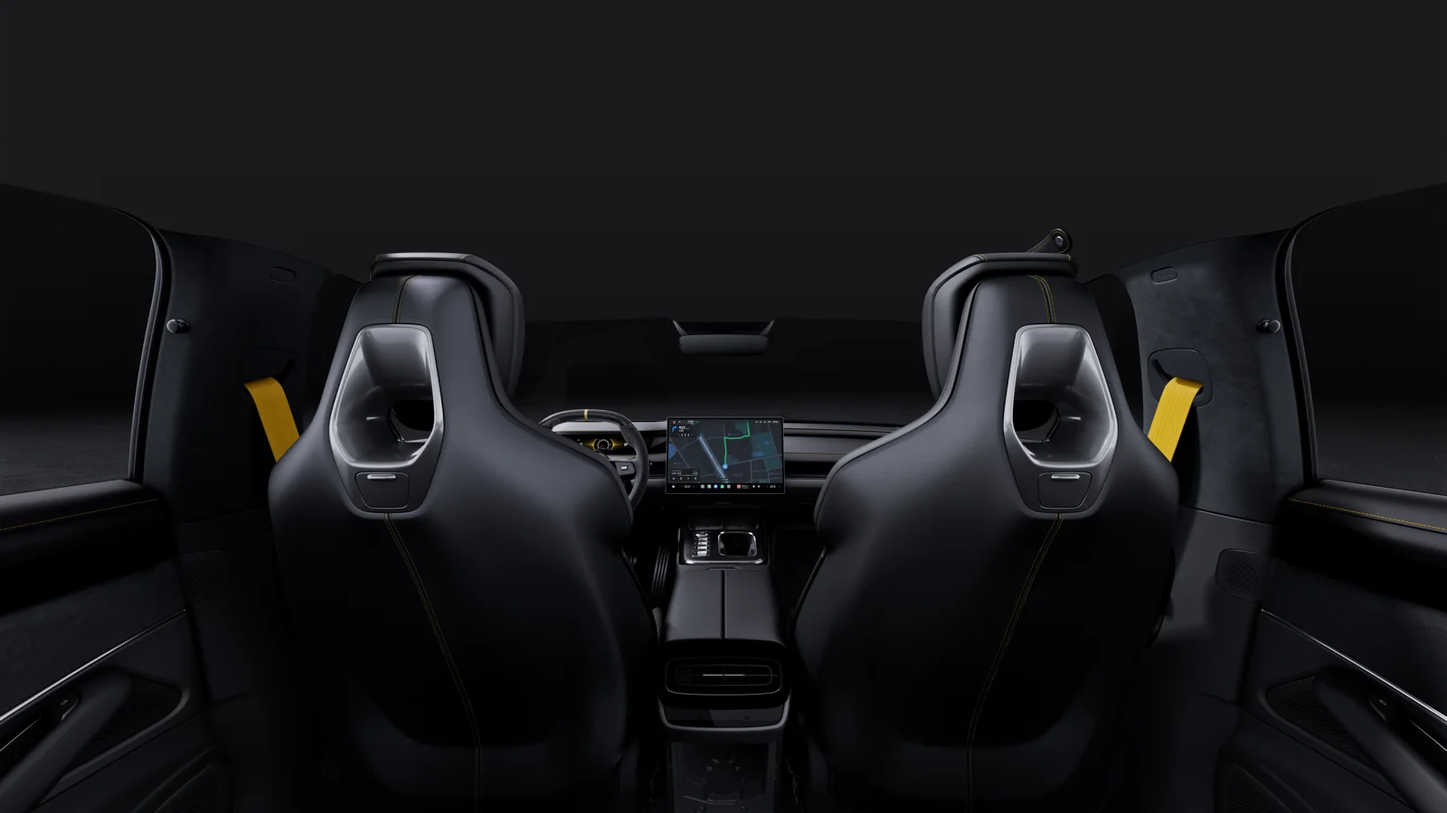
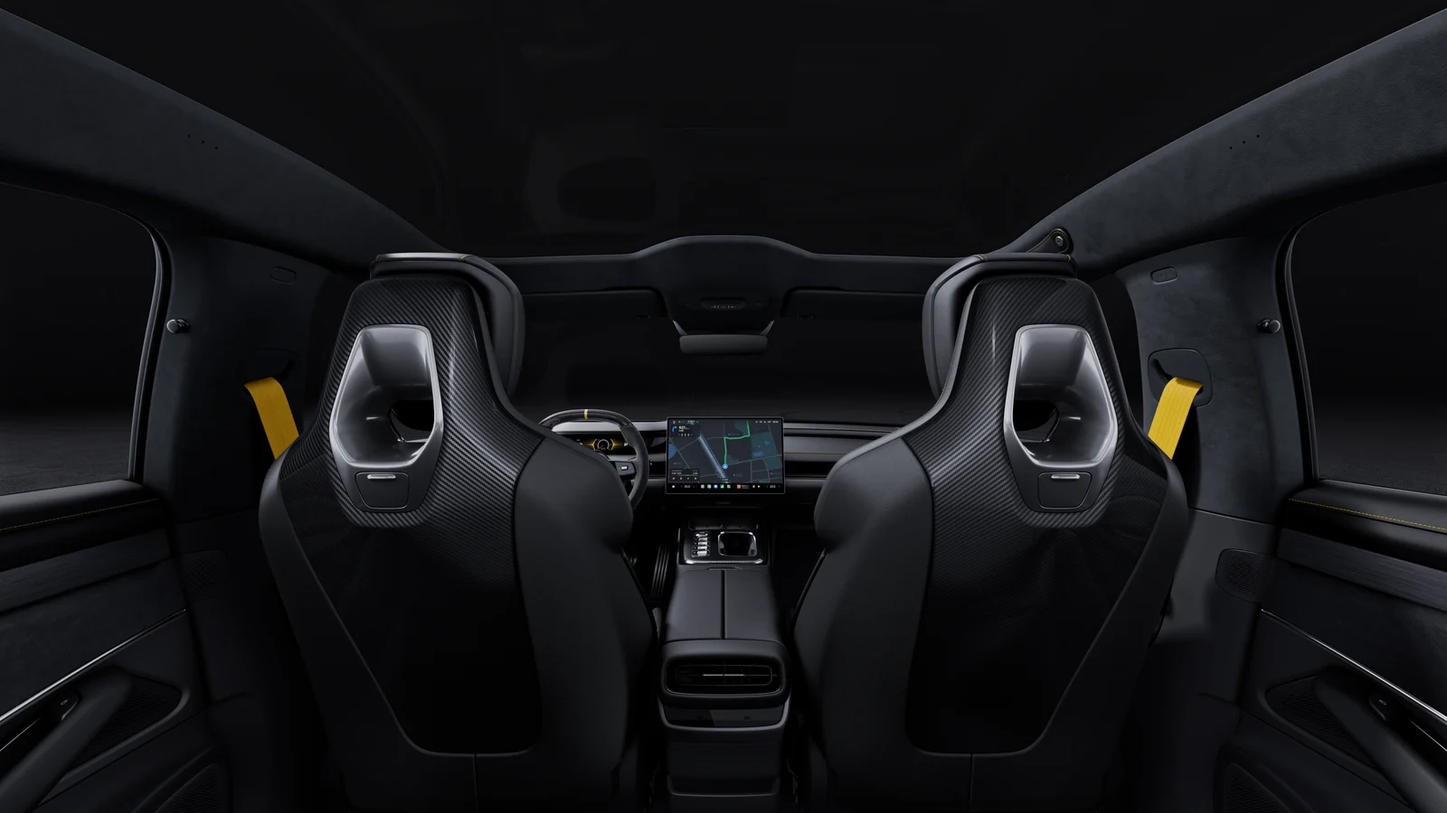
Конфигуратор Xiaomi SU7 Ultra: сборка без цен, кадры Xiaomi под каждую сборку, отправка менеджеру

diff --git a/js/zeekr-data.js b/js/zeekr-data.js
@@ -1,2 +1,2 @@
 /* Данные конфигуратора Xiaomi SU7 Ultra: официальный конфигуратор xiaomiev.com, сняты скриптами tools/xiaomi_snyat.py и tools/xiaomi_api.py. Цен нет намеренно. */
-window.ZEEKR_CFG = {"car":"Xiaomi SU7 Ultra","short":"SU7 Ultra","groups":[],"versions":[{"id":"v0","name":"Standard","tag":"630 км (CLTC), 1548 л. с.","group":"","drive":"","level":[],"secs":[{"sku":"paint","role":"paint","title":"Цвет кузова","kind":"swatch","img":"ext","opts":[{"id":"p1","def":true,"promo":false,"promoTo":""},{"id":"p2","def":false,"promo":false,"promoTo":""},{"id":"p3","def":false,"promo":false,"promoTo":""},{"id":"p4","def":false,"promo":false,"promoTo":""},{"id":"p5","def":false,"promo":false,"promoTo":""}]},{"sku":"wheel","role":"wheel","title":"Диски","kind":"option","img":"ext","opts":[{"id":"w1","def":true,"promo":false,"promoTo":""},{"id":"w2","def":false,"promo":false,"promoTo":""},{"id":"w3","def":false,"promo":false,"promoTo":""},{"id":"w4","def":false,"promo":false,"promoTo":""}]},{"sku":"int","role":"int","title":"Цвет салона","kind":"swatch","img":"int","opts":[{"id":"i1","def":true,"promo":false,"promoTo":""},{"id":"i2","def":false,"promo":false,"promoTo":""},{"id":"i3","def":false,"promo":false,"promoTo":""}]}],"codePrefix":"v0-","vehicleSkus":["paint","wheel"],"interiorSkus":["int"],"ranges":{}},{"id":"v1","name":"Track Package","tag":"555 км (CLTC), 1548 л. с.","group":"","drive":"","level":[],"secs":[{"sku":"paint","role":"paint","title":"Цвет кузова","kind":"swatch","img":"ext","opts":[{"id":"p1","def":true,"promo":false,"promoTo":""},{"id":"p2","def":false,"promo":false,"promoTo":""},{"id":"p3","def":false,"promo":false,"promoTo":""},{"id":"p4","def":false,"promo":false,"promoTo":""},{"id":"p5","def":false,"promo":false,"promoTo":""}]},{"sku":"wheel","role":"wheel","title":"Диски","kind":"option","img":"ext","opts":[{"id":"w5","def":true,"promo":false,"promoTo":""},{"id":"w6","def":false,"promo":false,"promoTo":""}]},{"sku":"int","role":"int","title":"Цвет салона","kind":"swatch","img":"int","opts":[{"id":"i1","def":true,"promo":false,"promoTo":""},{"id":"i2","def":false,"promo":false,"promoTo":""},{"id":"i3","def":false,"promo":false,"promoTo":""}]}],"codePrefix":"v1-","vehicleSkus":["paint","wheel"],"interiorSkus":["int"],"ranges":{}},{"id":"v2","name":"Nürburgring Limited","tag":"520 км (CLTC), 1548 л. с.","group":"","drive":"","level":[],"secs":[{"sku":"paint","role":"paint","title":"Цвет кузова","kind":"swatch","img":"ext","opts":[{"id":"p1","def":true,"promo":false,"promoTo":""}]},{"sku":"wheel","role":"wheel","title":"Диски","kind":"option","img":"ext","opts":[{"id":"w5","def":true,"promo":false,"promoTo":""},{"id":"w7","def":false,"promo":false,"promoTo":""}]},{"sku":"int","role":"int","title":"Цвет салона","kind":"swatch","img":"int","opts":[{"id":"i2","def":true,"promo":false,"promoTo":""}]}],"codePrefix":"v2-","vehicleSkus":["paint","wheel"],"interiorSkus":["int"],"ranges":{}}],"options":{"p1":{"name":"Молния, жёлтый","note":"","icon":"img/xiaomi-su7-ultra/options/p1.webp","mutex":[],"cascade":[],"sku":"paint"},"p2":{"name":"Жемчужно-белый","note":"","icon":"img/xiaomi-su7-ultra/options/p2.webp","mutex":[],"cascade":[],"sku":"paint"},"p3":{"name":"Космическое серебро","note":"","icon":"img/xiaomi-su7-ultra/options/p3.webp","mutex":[],"cascade":[],"sku":"paint"},"p4":{"name":"Изумрудный «попугай»","note":"","icon":"img/xiaomi-su7-ultra/options/p4.webp","mutex":[],"cascade":[],"sku":"paint"},"p5":{"name":"Обсидиановый чёрный","note":"","icon":"img/xiaomi-su7-ultra/options/p5.webp","mutex":[],"cascade":[],"sku":"paint"},"w1":{"name":"21″ U-образные, чёрные","note":"","icon":"img/xiaomi-su7-ultra/options/w1.webp","mutex":[],"cascade":[],"sku":"wheel"},"w2":{"name":"21″ U-образные с жёлтым кантом","note":"","icon":"img/xiaomi-su7-ultra/options/w2.webp","mutex":[],"cascade":[],"sku":"wheel"},"w3":{"name":"21″ кованые, графит","note":"","icon":"img/xiaomi-su7-ultra/options/w3.webp","mutex":[],"cascade":[],"sku":"wheel"},"w4":{"name":"21″ кованые, неодим","note":"","icon":"img/xiaomi-su7-ultra/options/w4.webp","mutex":[],"cascade":[],"sku":"wheel"},"i1":{"name":"Жёлтый с чёрным","note":"","icon":"img/xiaomi-su7-ultra/options/i1.webp","mutex":[],"cascade":[],"sku":"int"},"i2":{"name":"Чёрный с жёлтым","note":"","icon":"img/xiaomi-su7-ultra/options/i2.webp","mutex":[],"cascade":[],"sku":"int"},"i3":{"name":"Чёрный с красным","note":"","icon":"img/xiaomi-su7-ultra/options/i3.webp","mutex":[],"cascade":[],"sku":"int"},"w5":{"name":"21″ кованые, графит","note":"спортивные шины","icon":"img/xiaomi-su7-ultra/options/w5.webp","mutex":[],"cascade":[],"sku":"wheel"},"w6":{"name":"21″ кованые, неодим","note":"спортивные шины","icon":"img/xiaomi-su7-ultra/options/w6.webp","mutex":[],"cascade":[],"sku":"wheel"},"w7":{"name":"21″ кованые, неодим","note":"спортивные шины","icon":"img/xiaomi-su7-ultra/options/w7.webp","mutex":[],"cascade":[],"sku":"wheel"}},"have":{"v0-p1_w1":["hero","side","rear34","front","rear"],"v0-p1_w2":["hero","side","rear34","front","rear"],"v0-p1_w3":["hero","side","rear34","front","rear"],"v0-p1_w4":["hero","side","rear34","front","rear"],"v0-p2_w1":["hero","side","rear34","front","rear"],"v0-p2_w2":["hero","side","rear34","front","rear"],"v0-p2_w3":["hero","side","rear34","front","rear"],"v0-p2_w4":["hero","side","rear34","front","rear"],"v0-p3_w1":["hero","side","rear34","front","rear"],"v0-p3_w2":["hero","side","rear34","front","rear"],"v0-p3_w3":["hero","side","rear34","front","rear"],"v0-p3_w4":["hero","side","rear34","front","rear"],"v0-p4_w1":["hero","side","rear34","front","rear"],"v0-p4_w2":["hero","side","rear34","front","rear"],"v0-p4_w3":["hero","side","rear34","front","rear"],"v0-p4_w4":["hero","side","rear34","front","rear"],"v0-p5_w1":["hero","side","rear34","front","rear"],"v0-p5_w2":["hero","side","rear34","front","rear"],"v0-p5_w3":["hero","side","rear34","front","rear"],"v0-p5_w4":["hero","side","rear34","front","rear"],"v1-p1_w5":["hero","side","rear34","front","rear"],"v1-p1_w6":["hero","side","rear34","front","rear"],"v1-p2_w5":["hero","side","rear34","front","rear"],"v1-p2_w6":["hero","side","rear34","front","rear"],"v1-p3_w5":["hero","side","rear34","front","rear"],"v1-p3_w6":["hero","side","rear34","front","rear"],"v1-p4_w5":["hero","side","rear34","front","rear"],"v1-p4_w6":["hero","side","rear34","front","rear"],"v1-p5_w5":["hero","side","rear34","front","rear"],"v1-p5_w6":["hero","side","rear34","front","rear"],"v2-p1_w5":["hero","side","rear34","front","rear"],"v2-p1_w7":["hero","side","rear34","front","rear"]},"int":["v0-i1","v0-i2","v0-i3","v1-i1","v1-i2","v1-i3","v2-i2"],"paths":{"ext":"img/xiaomi-su7-ultra/ext/{code}--{shot}.webp","int":"img/xiaomi-su7-ultra/int/{code}--{shot}.webp"},"shots":[{"id":"hero","label":"Спереди","fit":"cover"},{"id":"side","label":"Сбоку","fit":"cover"},{"id":"rear34","label":"Сзади","fit":"cover"},{"id":"front","label":"Вид спереди","fit":"cover"},{"id":"rear","label":"Вид сзади","fit":"cover"},{"id":"int","label":"Салон","kind":"int"},{"id":"int2","label":"Второй ряд","kind":"int"}]};
+window.ZEEKR_CFG = {"car":"Xiaomi SU7 Ultra","short":"SU7 Ultra","groups":[],"versions":[{"id":"v0","name":"Standard","tag":"630 км (CLTC), 1548 л. с.","group":"","drive":"","level":[],"secs":[{"sku":"paint","role":"paint","title":"Цвет кузова","kind":"swatch","img":"ext","opts":[{"id":"p1","def":true,"promo":false,"promoTo":""},{"id":"p2","def":false,"promo":false,"promoTo":""},{"id":"p3","def":false,"promo":false,"promoTo":""},{"id":"p4","def":false,"promo":false,"promoTo":""},{"id":"p5","def":false,"promo":false,"promoTo":""}]},{"sku":"wheel","role":"wheel","title":"Диски","kind":"option","img":"ext","opts":[{"id":"w1","def":true,"promo":false,"promoTo":""},{"id":"w2","def":false,"promo":false,"promoTo":""},{"id":"w3","def":false,"promo":false,"promoTo":""},{"id":"w4","def":false,"promo":false,"promoTo":""}]},{"sku":"int","role":"int","title":"Цвет салона","kind":"swatch","img":"int","opts":[{"id":"i1","def":true,"promo":false,"promoTo":""},{"id":"i2","def":false,"promo":false,"promoTo":""},{"id":"i3","def":false,"promo":false,"promoTo":""}]}],"codePrefix":"v0-","vehicleSkus":["paint","wheel"],"interiorSkus":["int"],"ranges":{}},{"id":"v1","name":"Track Package","tag":"555 км (CLTC), 1548 л. с.","group":"","drive":"","level":[],"secs":[{"sku":"paint","role":"paint","title":"Цвет кузова","kind":"swatch","img":"ext","opts":[{"id":"p1","def":true,"promo":false,"promoTo":""},{"id":"p2","def":false,"promo":false,"promoTo":""},{"id":"p3","def":false,"promo":false,"promoTo":""},{"id":"p4","def":false,"promo":false,"promoTo":""},{"id":"p5","def":false,"promo":false,"promoTo":""}]},{"sku":"wheel","role":"wheel","title":"Диски","kind":"option","img":"ext","opts":[{"id":"w5","def":true,"promo":false,"promoTo":""},{"id":"w6","def":false,"promo":false,"promoTo":""}]},{"sku":"int","role":"int","title":"Цвет салона","kind":"swatch","img":"int","opts":[{"id":"i1","def":true,"promo":false,"promoTo":""},{"id":"i2","def":false,"promo":false,"promoTo":""},{"id":"i3","def":false,"promo":false,"promoTo":""}]}],"codePrefix":"v1-","vehicleSkus":["paint","wheel"],"interiorSkus":["int"],"ranges":{}},{"id":"v2","name":"Nürburgring Limited","tag":"520 км (CLTC), 1548 л. с.","group":"","drive":"","level":[],"secs":[{"sku":"paint","role":"paint","title":"Цвет кузова","kind":"swatch","img":"ext","opts":[{"id":"p1","def":true,"promo":false,"promoTo":""}]},{"sku":"wheel","role":"wheel","title":"Диски","kind":"option","img":"ext","opts":[{"id":"w5","def":true,"promo":false,"promoTo":""},{"id":"w7","def":false,"promo":false,"promoTo":""}]},{"sku":"int","role":"int","title":"Цвет салона","kind":"swatch","img":"int","opts":[{"id":"i2","def":true,"promo":false,"promoTo":""}]}],"codePrefix":"v2-","vehicleSkus":["paint","wheel"],"interiorSkus":["int"],"ranges":{}}],"options":{"p1":{"name":"Молния, жёлтый","note":"","icon":"img/xiaomi-su7-ultra/options/p1.webp","mutex":[],"cascade":[],"sku":"paint"},"p2":{"name":"Жемчужно-белый","note":"","icon":"img/xiaomi-su7-ultra/options/p2.webp","mutex":[],"cascade":[],"sku":"paint"},"p3":{"name":"Космическое серебро","note":"","icon":"img/xiaomi-su7-ultra/options/p3.webp","mutex":[],"cascade":[],"sku":"paint"},"p4":{"name":"Изумрудный «попугай»","note":"","icon":"img/xiaomi-su7-ultra/options/p4.webp","mutex":[],"cascade":[],"sku":"paint"},"p5":{"name":"Обсидиановый чёрный","note":"","icon":"img/xiaomi-su7-ultra/options/p5.webp","mutex":[],"cascade":[],"sku":"paint"},"w1":{"name":"21″ U-образные, чёрные","note":"","icon":"img/xiaomi-su7-ultra/options/w1.webp","mutex":[],"cascade":[],"sku":"wheel"},"w2":{"name":"21″ U-образные с жёлтым кантом","note":"","icon":"img/xiaomi-su7-ultra/options/w2.webp","mutex":[],"cascade":[],"sku":"wheel"},"w3":{"name":"21″ кованые, графит","note":"","icon":"img/xiaomi-su7-ultra/options/w3.webp","mutex":[],"cascade":[],"sku":"wheel"},"w4":{"name":"21″ кованые, неодим","note":"","icon":"img/xiaomi-su7-ultra/options/w4.webp","mutex":[],"cascade":[],"sku":"wheel"},"i1":{"name":"Жёлтый с чёрным","note":"","icon":"img/xiaomi-su7-ultra/options/i1.webp","mutex":[],"cascade":[],"sku":"int"},"i2":{"name":"Чёрный с жёлтым","note":"","icon":"img/xiaomi-su7-ultra/options/i2.webp","mutex":[],"cascade":[],"sku":"int"},"i3":{"name":"Чёрный с красным","note":"","icon":"img/xiaomi-su7-ultra/options/i3.webp","mutex":[],"cascade":[],"sku":"int"},"w5":{"name":"21″ кованые, графит","note":"спортивные шины","icon":"img/xiaomi-su7-ultra/options/w5.webp","mutex":[],"cascade":[],"sku":"wheel"},"w6":{"name":"21″ кованые, неодим","note":"спортивные шины","icon":"img/xiaomi-su7-ultra/options/w6.webp","mutex":[],"cascade":[],"sku":"wheel"},"w7":{"name":"21″ кованые, неодим","note":"спортивные шины","icon":"img/xiaomi-su7-ultra/options/w7.webp","mutex":[],"cascade":[],"sku":"wheel"}},"have":{"v0-p1_w1":["hero","side","rear34","front","rear"],"v0-p1_w2":["hero","side","rear34","front","rear"],"v0-p1_w3":["hero","side","rear34","front","rear"],"v0-p1_w4":["hero","side","rear34","front","rear"],"v0-p2_w1":["hero","side","rear34","front","rear"],"v0-p2_w2":["hero","side","rear34","front","rear"],"v0-p2_w3":["hero","side","rear34","front","rear"],"v0-p2_w4":["hero","side","rear34","front","rear"],"v0-p3_w1":["hero","side","rear34","front","rear"],"v0-p3_w2":["hero","side","rear34","front","rear"],"v0-p3_w3":["hero","side","rear34","front","rear"],"v0-p3_w4":["hero","side","rear34","front","rear"],"v0-p4_w1":["hero","side","rear34","front","rear"],"v0-p4_w2":["hero","side","rear34","front","rear"],"v0-p4_w3":["hero","side","rear34","front","rear"],"v0-p4_w4":["hero","side","rear34","front","rear"],"v0-p5_w1":["hero","side","rear34","front","rear"],"v0-p5_w2":["hero","side","rear34","front","rear"],"v0-p5_w3":["hero","side","rear34","front","rear"],"v0-p5_w4":["hero","side","rear34","front","rear"],"v1-p1_w5":["hero","side","rear34","front","rear"],"v1-p1_w6":["hero","side","rear34","front","rear"],"v1-p2_w5":["hero","side","rear34","front","rear"],"v1-p2_w6":["hero","side","rear34","front","rear"],"v1-p3_w5":["hero","side","rear34","front","rear"],"v1-p3_w6":["hero","side","rear34","front","rear"],"v1-p4_w5":["hero","side","rear34","front","rear"],"v1-p4_w6":["hero","side","rear34","front","rear"],"v1-p5_w5":["hero","side","rear34","front","rear"],"v1-p5_w6":["hero","side","rear34","front","rear"],"v2-p1_w5":["hero","side","rear34","front","rear"],"v2-p1_w7":["hero","side","rear34","front","rear"]},"int":["v0-i1","v0-i2","v0-i3","v1-i1","v1-i2","v1-i3","v2-i2"],"paths":{"ext":"img/xiaomi-su7-ultra/ext/{code}--{shot}.webp","int":"img/xiaomi-su7-ultra/int/{code}--{shot}.webp"},"shots":[{"id":"hero","label":"Спереди","fit":"cover"},{"id":"side","label":"Сбоку","fit":"cover"},{"id":"rear34","label":"Сзади","fit":"cover"},{"id":"front","label":"Вид спереди","fit":"cover"},{"id":"rear","label":"Вид сзади","fit":"cover"},{"id":"int","label":"Салон","kind":"int"},{"id":"int2","label":"Из второго ряда","kind":"int"}]};

diff --git a/tools/xiaomi_api.py b/tools/xiaomi_api.py
@@ -70,16 +70,29 @@ def items_of(cfg):
                         yield t, g, dict(ch, name=i['name'], defaultSelect=any(c.get('defaultSelect') for c in i['itemList']), configValueImage=img, _all=[c['ssuId'] for c in i['itemList']])
                     elif 'ssuId' in i: yield t, g, i
 
-def layers(v, sel, view):
+def selection(v):
+    """Полный выбор по умолчанию. У необязательной опции Xiaomi есть скрытый вариант «не выбрано» (defaultSsuNode): обычный руль,
+    штатные накладки и т. п. Их сайт подставляет сам; без них в кадре пропадают детали (салон без руля, 12.11.2026)."""
+    sel = {}
+    for t, g, i in items_of(v['cfg']):
+        d = i.get('defaultSsuNode') or {}
+        if d.get('itemIdentifier') and d.get('ssuId'): sel.setdefault(d['itemIdentifier'], d['ssuId'])
+    sel.update(v['cfg']['configurator']['defaultConfigSsuInfo']); sel['0_BB'] = v['ssuId']
+    return sel
+
+def layers(v, sel, view, page='CAR_CONFIG_OUTCOMEOUTSIDE_PAGE', comp='COLOR_PAGE_OUTCOME'):
     """Слои кадра по правилу сборки Xiaomi: [(url, x, y, w, h)] снизу вверх."""
-    page = v['mat']['pageMap']['CAR_CONFIG_OUTCOMEOUTSIDE_PAGE']; dp = page['dataPool']; out = []
-    for rule in page['componentMap']['COLOR_PAGE_OUTCOME']['combinationRule']:
+    pg = v['mat']['pageMap'].get(page) or {}; dp = pg.get('dataPool') or {}; out = []
+    for rule in ((pg.get('componentMap') or {}).get(comp) or {}).get('combinationRule') or []:
         for el in rule['elementList']:
             ssus = [sel.get(i) for i in el.split(',')]
             if any(s is None for s in ssus): continue
             mv = (dp.get('PC_' + rule['componentId'] + ':' + ':'.join(str(s) for s in ssus)) or {}).get('materialValueList') or []
             for x in mv:
-                if x.get('viewIdentityEnum') == view and x.get('payload') and x['width'] > 1: out.append((x['payload'], x['xCoordinate'], x['yCoordinate'], x['width'], x['height']))
+                if x.get('viewIdentityEnum') == view and x.get('payload') and x['width'] > 1:
+                    w, h = x['width'], x['height']
+                    if x['xCoordinate'] == 0 and x['yCoordinate'] == 0 and 2000 <= w < 5000 and abs(w / h - 5000 / 2812) < 0.02: w, h = 5000, 2812   # вся сцена, выложенная в меньшем размере
+                    out.append((x['payload'], x['xCoordinate'], x['yCoordinate'], w, h))
     return out
 
 def sobrat(proj, car, short, slug):
@@ -96,10 +109,10 @@ def sobrat(proj, car, short, slug):
         k = (role, re.sub(r'\s+', '', cn))
         if k not in reg: reg[k] = f'{role[0]}{len([x for x in reg if x[0] == role]) + 1}'
         return reg[k]
-    options, vers, have, ints, frames, icons, intjobs, mut = {}, [], {}, [], [], {}, {}, collections.defaultdict(set)
+    options, vers, have, ints, frames, iframes, icons, mut = {}, [], {}, [], [], [], {}, collections.defaultdict(set)
     for vi, v in enumerate(raw['versions']):
         cfg = v['cfg']; pre = f'v{vi}-'; pm = v['mat']['pageMap']
-        dflt = dict(cfg['configurator']['defaultConfigSsuInfo']); dflt['0_BB'] = v['ssuId']
+        dflt = selection(v)
         ins = (pm.get('INSIDE_PAGE') or {}).get('dataPool') or {}
         byrole = {'paint': [], 'wheel': [], 'int': []}; ssu2opt = {}
         for t, g, i in items_of(cfg):
@@ -125,11 +138,12 @@ def sobrat(proj, car, short, slug):
                 options.setdefault(pc, {'name': nm, 'note': note, 'icon': icon, 'mutex': [], 'cascade': [], 'sku': role})
                 ops.append({'id': pc, 'def': bool(i.get('defaultSelect')) or dflt.get(i.get('itemIdentifier')) in ([i['ssuId']] + (i.get('_all') or [])), 'promo': False, 'promoTo': ''})
                 if role == 'int':
-                    mv = {x.get('viewIdentityEnum'): x['payload'] for x in (ins.get(f'PC_INSIDE_CAR_CONFIG_OUTCOME_CROPPING:{i["ssuId"]}') or {}).get('materialValueList') or [] if x.get('width', 0) > 1}   # 1×1 – заглушка
-                    a, b = mv.get('2d_frontRow_DRIVER') or mv.get('2d_frontRow_PAX'), mv.get('2d_backRow_CNTR')
+                    isel = dict(dflt, **{'1_NSYS': i['ssuId']}); full = lambda ls: bool(ls) and ls[0][3] >= 4000      # салон тоже собирается из слоёв: основа + руль, накладки, экраны
+                    il = lambda view: layers(v, isel, view, 'INSIDE_PAGE', 'INSIDE_COMBINATION_OUTCOME')
+                    a = next((il(vw) for vw in ('2d_frontRow_DRIVER', '2d_frontRow_PAX') if full(il(vw))), None); b = il('2d_backRow_CNTR')
                     if a:
-                        code = pre + pc; ints.append(code); intjobs[f'{proj}/{IMG}/int/{code}--int.webp'] = a
-                        if b: intjobs[f'{proj}/{IMG}/int/{code}--int2.webp'] = b
+                        code = pre + pc; ints.append(code); iframes.append((f'{proj}/{IMG}/int/{code}--int.webp', 'int', a, None))
+                        if full(b): iframes.append((f'{proj}/{IMG}/int/{code}--int2.webp', 'int2', b, None))
             if ops:
                 if not any(o['def'] for o in ops): ops[0]['def'] = True
                 secs.append({'sku': role, 'role': role, 'title': title, 'kind': kind, 'img': img, 'opts': ops})
@@ -157,7 +171,7 @@ def sobrat(proj, car, short, slug):
         if all(i in vids for i in both): options[a]['mutex'].append(b); options[b]['mutex'].append(a)
         else: print('ВНИМАНИЕ: пара несовместима не во всех версиях, правило не поставлено:', options[a]['name'], '/', options[b]['name'], flush=True)
     # скачать слои
-    urls = sorted({l[0] for f in frames for l in f[2]} | set(icons.values()) | set(intjobs.values()))
+    urls = sorted({l[0] for f in frames + iframes for l in f[2]} | set(icons.values()))
     with ThreadPoolExecutor(6) as ex: got = dict(zip(urls, ex.map(lambda u: curl(u, cpath(u)), urls)))
     print('слоёв и значков', len(urls), 'не скачалось', sum(not g for g in got.values()), flush=True)
     # рамка вырезки на вид: по слою дисков первой сборки (центр по горизонтали, колёса на 2/3 высоты), ширина одна на модель
@@ -178,7 +192,7 @@ def sobrat(proj, car, short, slug):
     def make(fr):
         dst, sid, ls, _ = fr; sig = (sid,) + tuple(l[0] for l in ls)
         if sig in done: return
-        done[sig] = dst; box = boxes[sid]; canvas = None
+        done[sig] = dst; box = boxes[sid]; canvas = None; size = (OUT_W, OUT_H) if sid not in ('int', 'int2') else (1600, 900)
         if os.path.exists(dst) and os.path.getsize(dst) > 300: return
         for u, x, y, w, h in ls:
             if not got.get(u): return
@@ -194,11 +208,12 @@ def sobrat(proj, car, short, slug):
                 l = px[x0 - 2, y]; r = px[x1 + 2, y]
                 for x in range(x0, x1):
                     t = (x - x0) / max(1, x1 - x0); px[x, y] = tuple(int(l[i] + (r[i] - l[i]) * t) for i in range(3))
-        canvas.resize((OUT_W, OUT_H), Image.LANCZOS).save(dst + '.part', 'WEBP', quality=86, method=4); os.replace(dst + '.part', dst)
+        canvas.resize(size, Image.LANCZOS).save(dst + '.part', 'WEBP', quality=86, method=4); os.replace(dst + '.part', dst)
     uniq = {}
-    for fr in frames: uniq.setdefault((fr[1],) + tuple(l[0] for l in fr[2]), fr)
+    boxes['int'] = boxes['int2'] = (0, 0, 5000, 2812)
+    for fr in frames + iframes: uniq.setdefault((fr[1],) + tuple(l[0] for l in fr[2]), fr)
     with ThreadPoolExecutor(4) as ex: list(ex.map(make, uniq.values()))
-    for dst, sid, ls, _ in frames:                                           # одинаковые сборки разных версий – копией
+    for dst, sid, ls, _ in frames + iframes:                                 # одинаковые сборки разных версий – копией
         src = done.get((sid,) + tuple(l[0] for l in ls))
         if src and src != dst and os.path.exists(src) and not os.path.exists(dst): shutil.copyfile(src, dst)
     def small(item, size, q):
@@ -206,8 +221,7 @@ def sobrat(proj, car, short, slug):
         if not got.get(u) or (os.path.exists(dst) and os.path.getsize(dst) > 300): return
         im = Image.open(cpath(u)); im = im.convert('RGBA' if size[0] < 200 else 'RGB'); im.thumbnail(size); im.save(dst + '.part', 'WEBP', quality=q, method=4); os.replace(dst + '.part', dst)
     for it in icons.items(): small(it, (112, 112), 88)
-    for it in intjobs.items(): small(it, (1600, 1600), 84)
-    keep = {f[0] for f in frames} | set(icons) | set(intjobs)                 # кадры от прежних сборок, которых больше нет в данных, убираем
+    keep = {f[0] for f in frames + iframes} | set(icons)                 # кадры от прежних сборок, которых больше нет в данных, убираем
     for d in ('ext', 'int', 'options'):
         for fn in os.listdir(f'{proj}/{IMG}/{d}'):
             if f'{proj}/{IMG}/{d}/{fn}' not in keep: os.remove(f'{proj}/{IMG}/{d}/{fn}')
@@ -219,7 +233,7 @@ def sobrat(proj, car, short, slug):
     for o in options.values():
         if o['icon'] and not ex_(f'{proj}/{o["icon"]}'): o['icon'] = None
     used = [sid for sid, _, _ in VIEWS if any(sid in ss for ss in have.values())]
-    shots = [{'id': sid, 'label': lab, 'fit': 'cover'} for sid, _, lab in VIEWS if sid in used] + [{'id': 'int', 'label': 'Салон', 'kind': 'int'}] + ([{'id': 'int2', 'label': 'Второй ряд', 'kind': 'int'}] if two else [])
+    shots = [{'id': sid, 'label': lab, 'fit': 'cover'} for sid, _, lab in VIEWS if sid in used] + [{'id': 'int', 'label': 'Салон', 'kind': 'int'}] + ([{'id': 'int2', 'label': 'Из второго ряда', 'kind': 'int'}] if two else [])
     for v in vers:
         by = {s['sku']: s for s in v['secs']}
         miss = [c for c in (v['codePrefix'] + p['id'] + '_' + w['id'] for p in by['paint']['opts'] for w in by['wheel']['opts'] if w['id'] not in options[p['id']]['mutex']) if c not in have]

diff --git a/tools/obzor.py b/tools/obzor.py
@@ -1,0 +1,46 @@
+"""Обзорные листы кадров конфигуратора – смотреть глазами перед выкладкой (правило после салона Xiaomi без руля, 12.11.2026).
+  python3 obzor.py <папка проекта> <папка для листов>
+Салон: КАЖДЫЙ разный кадр салона (одинаковые по содержимому показываются один раз, с числом повторов).
+Кузов: по каждой версии – все виды сборки по умолчанию и главный кадр каждого цвета.
+На что смотреть: руль, сиденья, экраны, зеркала, диски, антикрыло на месте; нет обрезанной машины, пустых областей, иероглифов."""
+import json, os, sys, hashlib, collections
+from PIL import Image, ImageDraw
+proj, out = sys.argv[1], sys.argv[2]; os.makedirs(out, exist_ok=True)
+name = os.path.basename(os.path.abspath(proj)).replace('-konfigurator', '')
+d = json.loads(open(f'{proj}/js/zeekr-data.js').read().split('window.ZEEKR_CFG = ', 1)[1].rstrip().rstrip(';'))
+def sheet(cells, cols, cw, ch, path, per=28):
+    files = []
+    for part in range(0, len(cells), per):
+        ch_ = cells[part:part + per]; rows = (len(ch_) + cols - 1) // cols
+        sh = Image.new('RGB', (cols * cw, rows * (ch + 14)), (238, 238, 238)); dr = ImageDraw.Draw(sh)
+        for n, (f, label) in enumerate(ch_):
+            x, y = (n % cols) * cw, (n // cols) * (ch + 14)
+            try:
+                im = Image.open(f).convert('RGBA'); bg = Image.new('RGBA', im.size, (238, 238, 238, 255)); bg.alpha_composite(im); im = bg.convert('RGB'); im.thumbnail((cw - 4, ch)); sh.paste(im, (x + 2, y + 13))
+            except Exception as e: dr.text((x + 4, y + 30), 'НЕ ОТКРЫВАЕТСЯ', fill=(255, 0, 0))
+            dr.text((x + 3, y + 1), label[:int(cw / 6.2)], fill=(0, 0, 0))
+        p = f'{path}-{part // per + 1}.png'; sh.save(p); files.append(p)
+    return files
+ish = [s['id'] for s in d['shots'] if s['id'] == 'int' or s.get('kind') == 'int']
+seen = collections.OrderedDict()
+for c in d['int']:
+    for s in ish:
+        f = f'{proj}/' + d['paths']['int'].replace('{code}', c).replace('{shot}', s)
+        if not os.path.exists(f): continue
+        h = hashlib.md5(open(f, 'rb').read()).hexdigest(); seen.setdefault(h, [f, f'{c} {s}', 0]); seen[h][2] += 1
+files = sheet([(f, f'{lab} ×{n}') for f, lab, n in seen.values()], 4, 350, 220, f'{out}/{name}-salon', 24)
+cells = []
+for v in d['versions']:
+    by = {s['sku']: s for s in v['secs']}
+    def code(sel): return v.get('codePrefix', '') + '_'.join(x for x in (sel.get(k) for k in v['vehicleSkus']) if x)
+    dsel = {k: (next((o['id'] for o in s['opts'] if o['def']), s['opts'][0]['id']) if s['role'] != 'extra' else (s['opts'][0]['id'] if s['opts'][0]['def'] or s['opts'][0].get('pre') else None)) for k, s in by.items()}
+    c0 = code(dsel); shots = (['hero'] + [x for x in ((d.get('ang') or {}).get(c0) or d['have'].get(c0) or []) if x != 'hero'])
+    for s in shots:
+        f = f'{proj}/' + d['paths']['ext'].replace('{code}', c0).replace('{shot}', s)
+        cells.append((f, f'{v["name"]} | {s}'))
+    paint = next((s for s in v['secs'] if s['role'] == 'paint'), None)
+    for o in (paint['opts'] if paint else []):
+        c = code(dict(dsel, **{paint['sku']: o['id']}))
+        if c != c0 and c in d['have']: cells.append((f'{proj}/' + d['paths']['ext'].replace('{code}', c).replace('{shot}', 'hero'), f'{v["name"]} | {d["options"][o["id"]]["name"]}'))
+files += sheet(cells, 4, 350, 220, f'{out}/{name}-kuzov', 24)
+print(name, 'разных кадров салона', len(seen), 'кадров кузова в обзоре', len(cells)); print('\n'.join(files))
